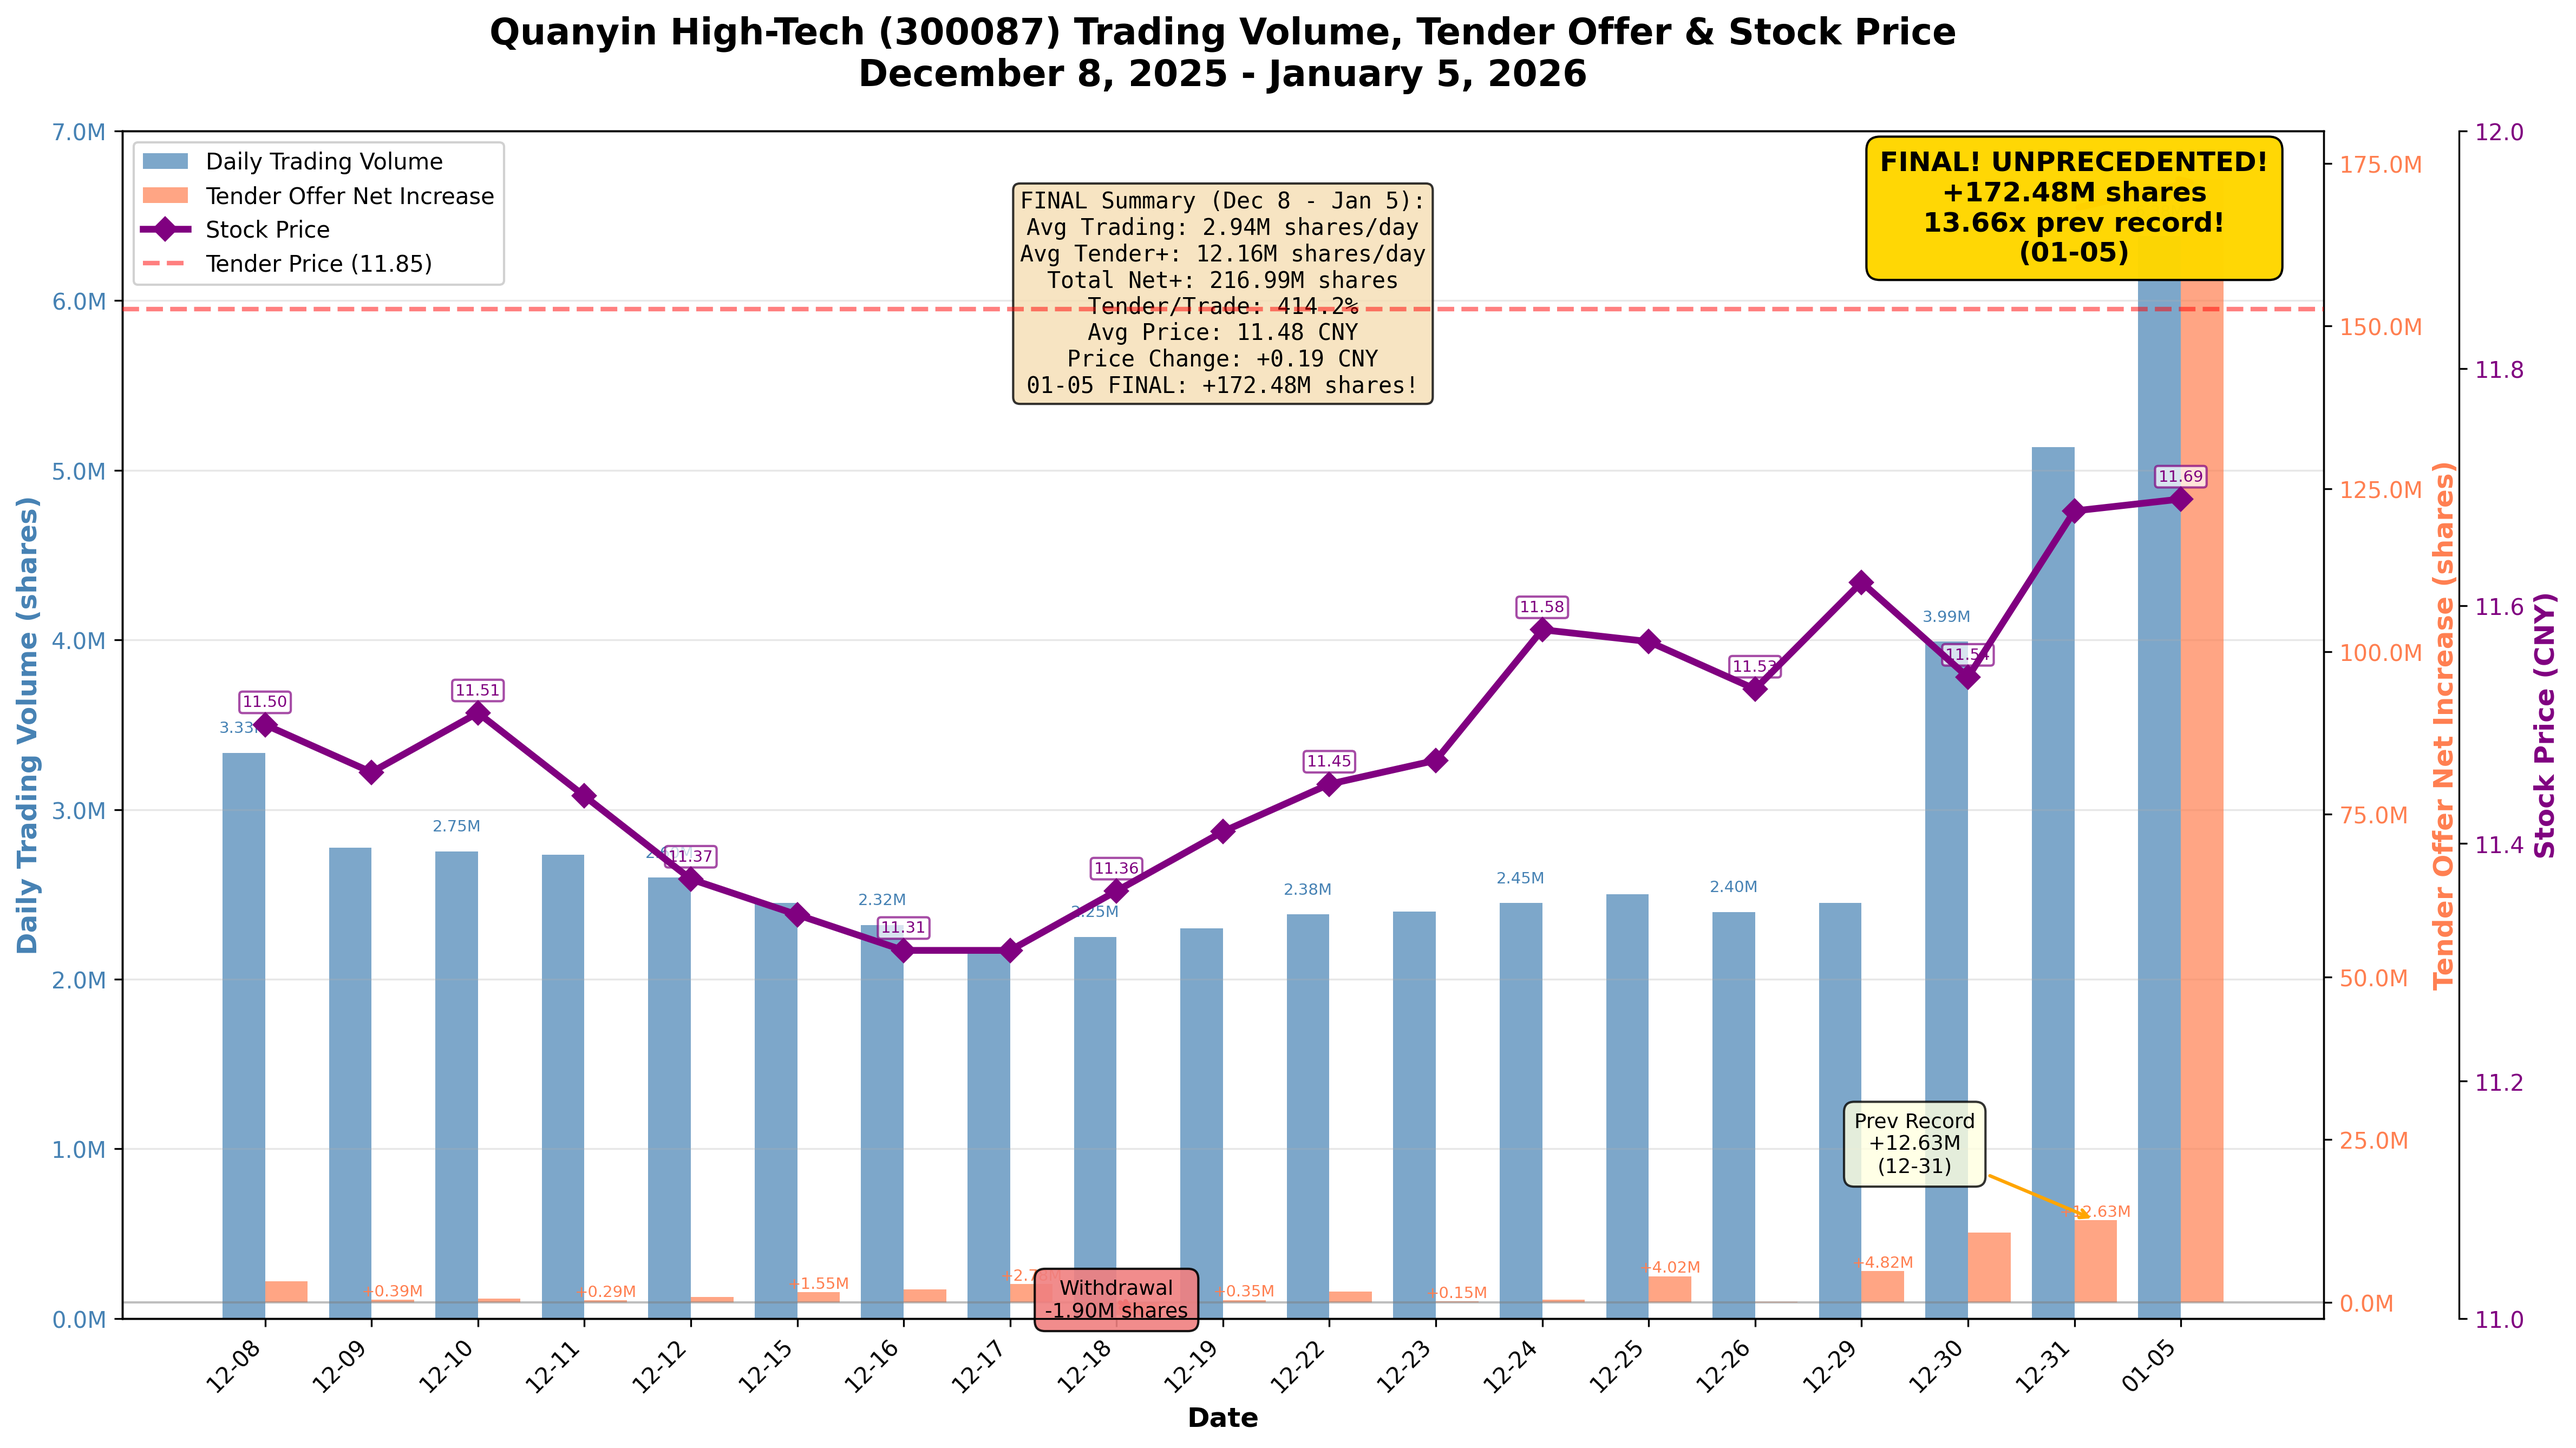
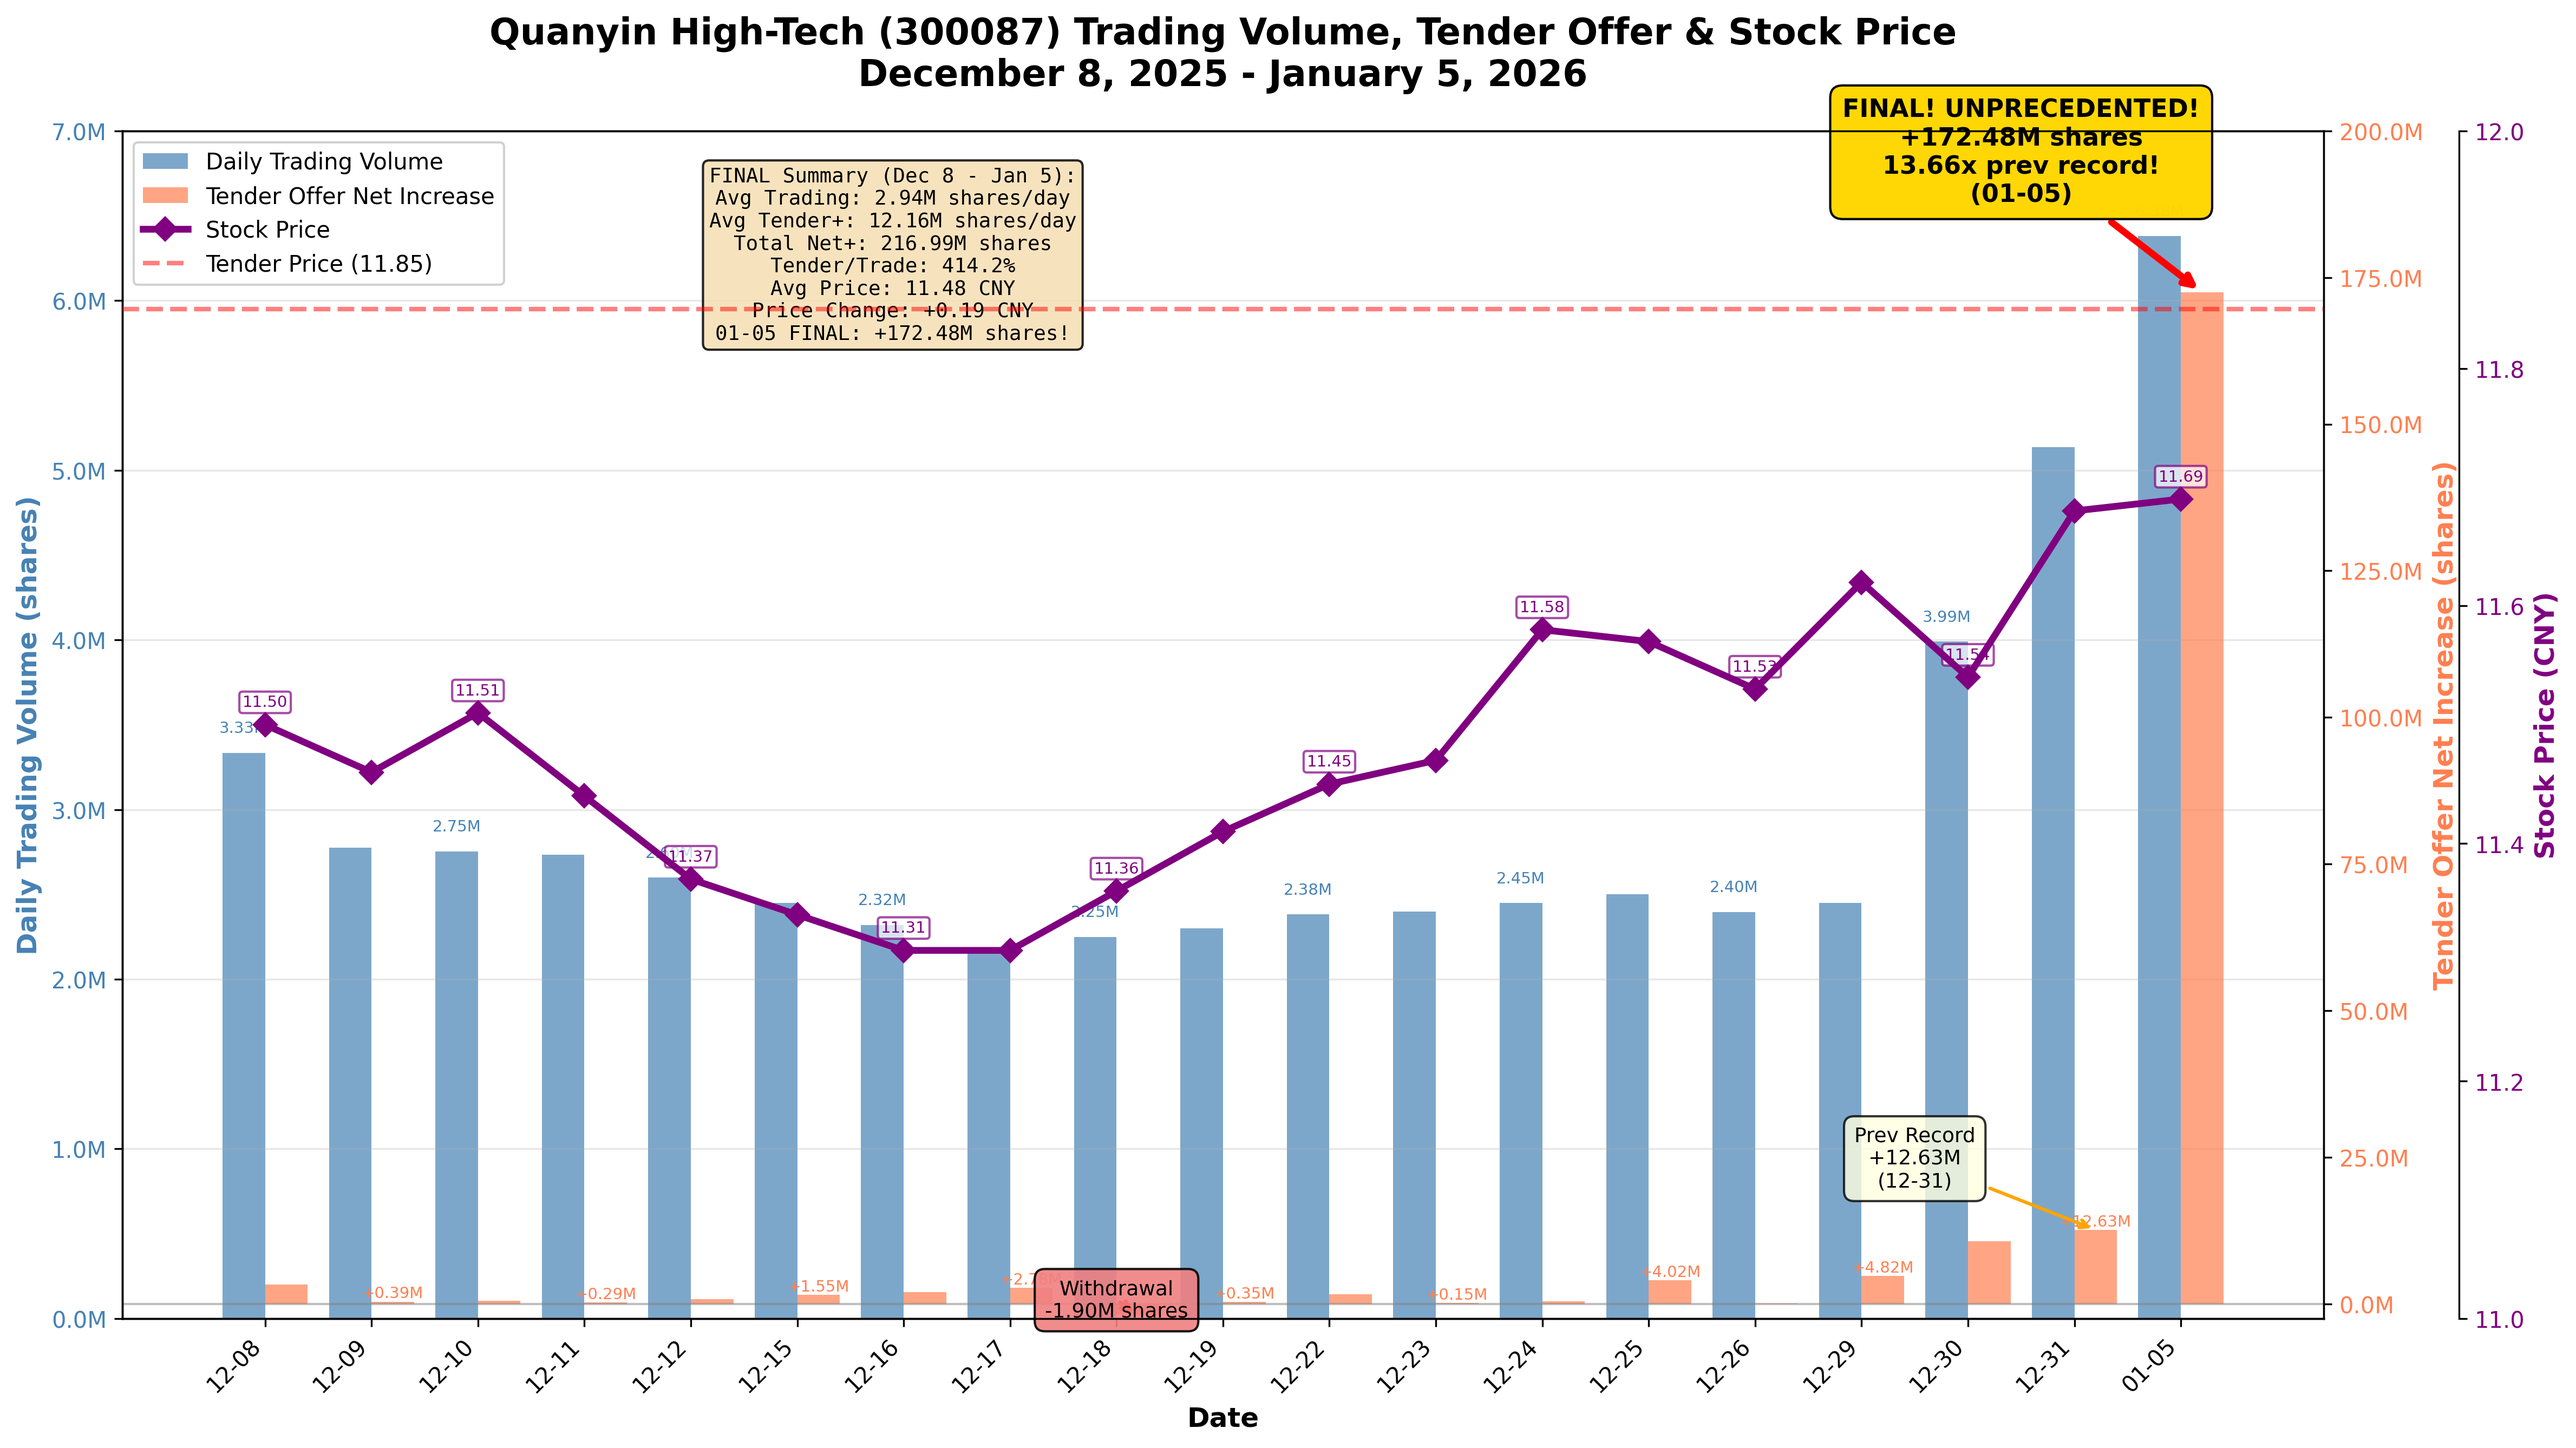
优化成交量对比图表布局 - 完整显示最后一天数据
调整内容：
- Y轴上限从180M扩展到200M，为顶部annotation留出空间
- FINAL annotation位置调整到188M高度，确保完整显示
- 统计文本框移至左上方(0.35, 0.97)，避免遮挡右侧高柱子
- 字体大小微调为9号，使布局更紧凑

现在172.48M的最后一天数据可以完整清晰地展示了。

diff --git a/05_quanyin_tender_offer/generate_volume_comparison_chart.py b/05_quanyin_tender_offer/generate_volume_comparison_chart.py
@@ -148,9 +148,9 @@ def millions_formatter(x, pos):
 ax1.yaxis.set_major_formatter(plt.FuncFormatter(millions_formatter))
 ax2.yaxis.set_major_formatter(plt.FuncFormatter(millions_formatter))
 
-# Set y-axis limits
-ax1.set_ylim([0, 7000000])  # Increased to accommodate 01-05's trading volume 6.38M
-ax2.set_ylim([-2500000, 180000000])  # Increased to accommodate 01-05's UNPRECEDENTED 172.48M!
+# Set y-axis limits - give more space at top for annotation
+ax1.set_ylim([0, 7000000])  # Accommodate 01-05's trading volume 6.38M
+ax2.set_ylim([-2500000, 200000000])  # Extra space for annotation above 172.48M bar
 ax3.set_ylim([11.0, 12.0])
 
 # Add zero line for right axis
@@ -196,10 +196,10 @@ for i, (v1, v2, price) in enumerate(zip(daily_trading_volume, daily_tender_net_i
 final_idx = 18
 ax2.annotate('FINAL! UNPRECEDENTED!\n+172.48M shares\n13.66x prev record!\n(01-05)',
              xy=(final_idx + bar_width/2, daily_tender_net_increase[final_idx]),
-             xytext=(final_idx-1, 160000000),  # Upper right
+             xytext=(final_idx-1.5, 188000000),  # Position near top with clearance
              bbox=dict(boxstyle='round,pad=0.5', facecolor='gold', alpha=0.98),
              arrowprops=dict(arrowstyle='->', color='red', lw=3),
-             fontsize=12, fontweight='bold', ha='center')
+             fontsize=11, fontweight='bold', ha='center')
 
 # Previous record on 12-31
 prev_record_idx = 17
@@ -249,9 +249,9 @@ Avg Price: {avg_price:.2f} CNY
 Price Change: {price_change:+.2f} CNY
 01-05 FINAL: +172.48M shares!'''
 
-props = dict(boxstyle='round', facecolor='wheat', alpha=0.8)
-ax1.text(0.50, 0.95, stats_text, transform=ax1.transAxes,  # Upper middle (higher)
-         fontsize=10, verticalalignment='top', horizontalalignment='center',
+props = dict(boxstyle='round', facecolor='wheat', alpha=0.85)
+ax1.text(0.35, 0.97, stats_text, transform=ax1.transAxes,  # Upper left-center to avoid blocking
+         fontsize=9, verticalalignment='top', horizontalalignment='center',
          bbox=props, family='monospace')
 
 # Adjust layout
